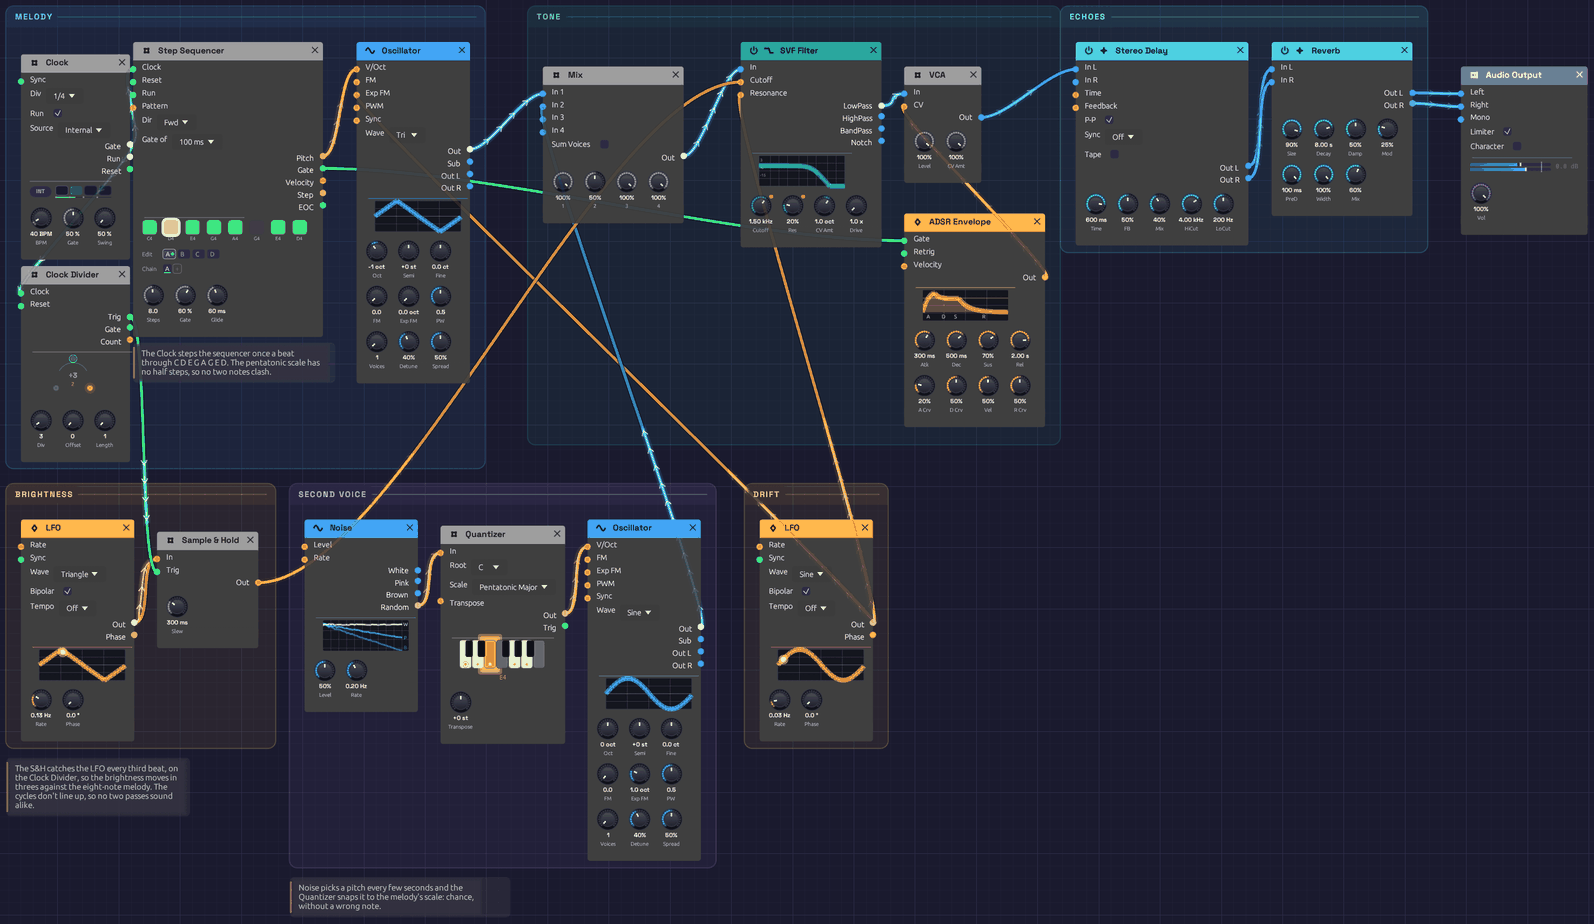
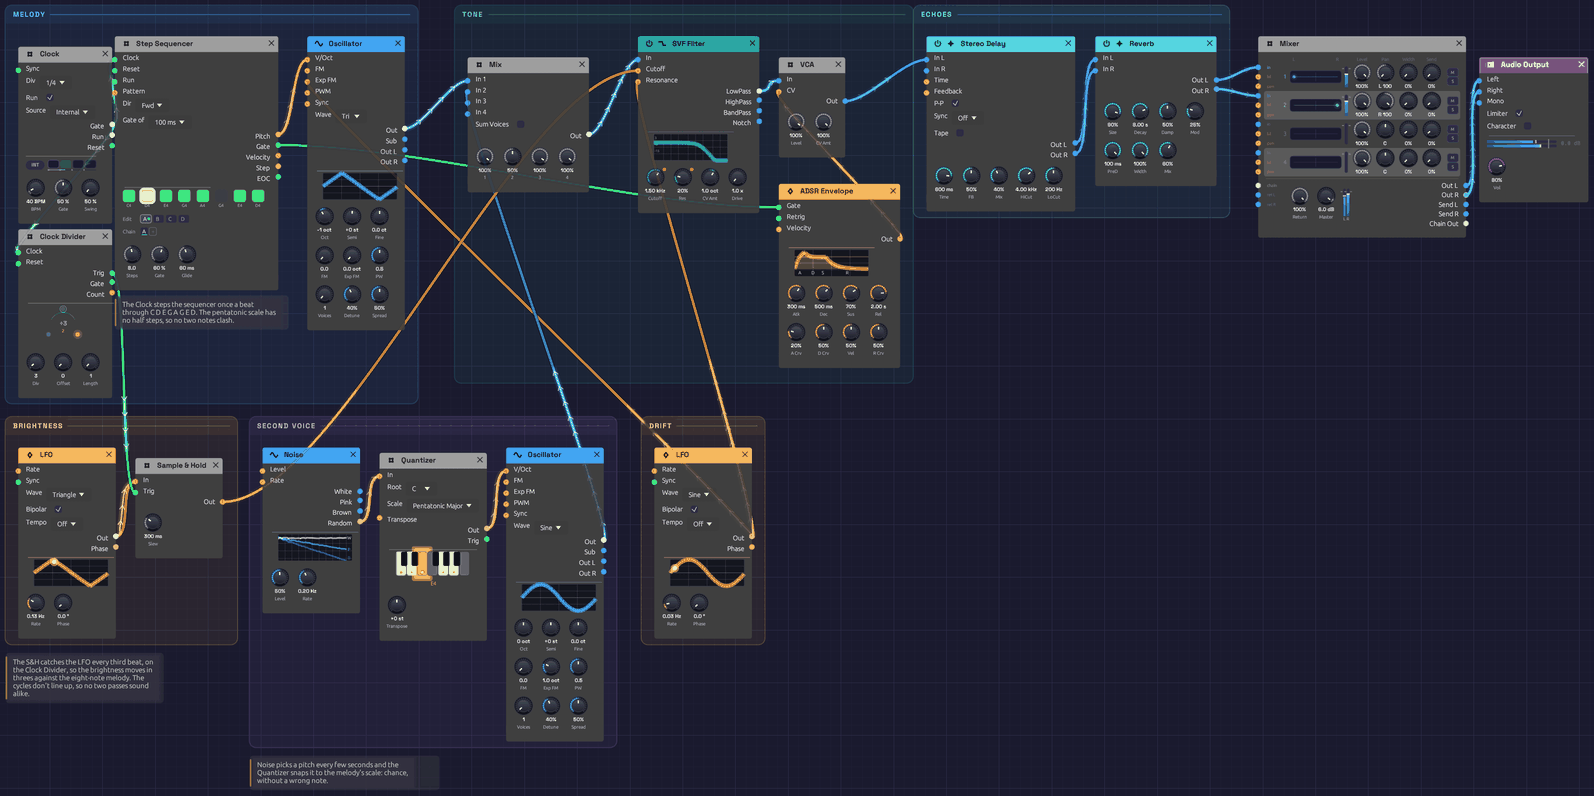
[Phase 14] Generative Ambient: a gain stage, so it can come up to the house level
- A Mixer between the Reverb and the Output: its two sides on channels
  1 and 2, panned hard left and right, Master +6 dB, the Output back at
  its 80% default. +4.1 dB net, from -19.7 to -15.7 LUFS, peaks -2.4 dBFS
- A pure gain: against the old render, scaled, the new one nulls to -120 dB
- Out of QUIETER in tests/example_loudness.rs
- Recipe: module table, signal flow and a paragraph on why the wash needs
  a gain stage; recipe image re-shot

Closes #175

diff --git a/tests/example_loudness.rs b/tests/example_loudness.rs
@@ -59,10 +59,6 @@ const QUIETER: &[(&str, &str)] = &[
     ),
     ("drum-machine.json", "raw drums: brought up until their peaks reach the ceiling, and no further"),
     ("roll-call.json", "raw drums: brought up until their peaks reach the ceiling, and no further"),
-    (
-        "generative-ambient.json",
-        "every gain stage from its oscillators to the Output is already at full; it needs a gain stage it doesn't have",
-    ),
     ("live-looper.json", "it plays what you play into it, as loud as you play it"),
 ];
 

diff --git a/docs/src/recipes/generative-ambient.md b/docs/src/recipes/generative-ambient.md
@@ -38,7 +38,8 @@ A patch that plays itself. A slow pentatonic melody repeats every twelve seconds
 | [LFO](../modules/modulation/lfo.md) 2 | **Rate** 0.03 Hz, **Wave** Sine, **Bipolar** on |
 | [Stereo Delay](../modules/effects/delay.md) | **Time** 600 ms, **FB** 50%, **Mix** 40%, **HiCut** 4 kHz, **LoCut** 200 Hz, **P-P** on |
 | [Reverb](../modules/effects/reverb.md) | **Size** 90%, **Decay** 8 s, **PreD** 100 ms, **Mix** 60% |
-| [Audio Output](../modules/output/audio-output.md) | **Vol** 100% |
+| [Mixer](../modules/utilities/mixer.md) | **Pan 1** L 100, **Pan 2** R 100, **Master** +6 dB |
+| [Audio Output](../modules/output/audio-output.md) | Defaults |
 
 ## How it's built
 
@@ -102,11 +103,15 @@ LFO 2 takes over half a minute per cycle. On Oscillator 1's **Exp FM** input, wi
 [VCA Out] ──> [Stereo Delay In L]
 [Stereo Delay Out L] ──> [Reverb In L]
 [Stereo Delay Out R] ──> [Reverb In R]
-[Reverb Out L] ──> [Audio Output Left]
-[Reverb Out R] ──> [Audio Output Right]
+[Reverb Out L] ──> [Mixer Ch 1]        (Pan L 100)
+[Reverb Out R] ──> [Mixer Ch 2]        (Pan R 100)
+[Mixer Out L] ──> [Audio Output Left]
+[Mixer Out R] ──> [Audio Output Right]
 ```
 
 The envelope's 300 ms attack takes the edge off each note and its 2-second release lets it ring into the next one. The Stereo Delay repeats every 600 ms with **Ping-Pong** on, so echoes bounce between the speakers. Its **HiCut** and **LoCut** darken and thin each repeat, so the echoes recede instead of building up. The Reverb's large room and 8-second tail turn it all into a wash.
+
+A wash that wide is quiet. Most of each note goes into the reverb's tail, and a soft triangle through a filter doesn't start out loud. Every stage up to the Reverb is already at full, and turning up the filter's **Drive** would add grit, not just level. So the Mixer is the patch's gain stage. The Reverb's two sides come in on two channels panned hard left and right, which keeps the stereo picture as it was, and **Master** at +6 dB brings the whole wash up to sit with the other examples. Its two spare channels are room for another voice.
 
 ## Variations
 
